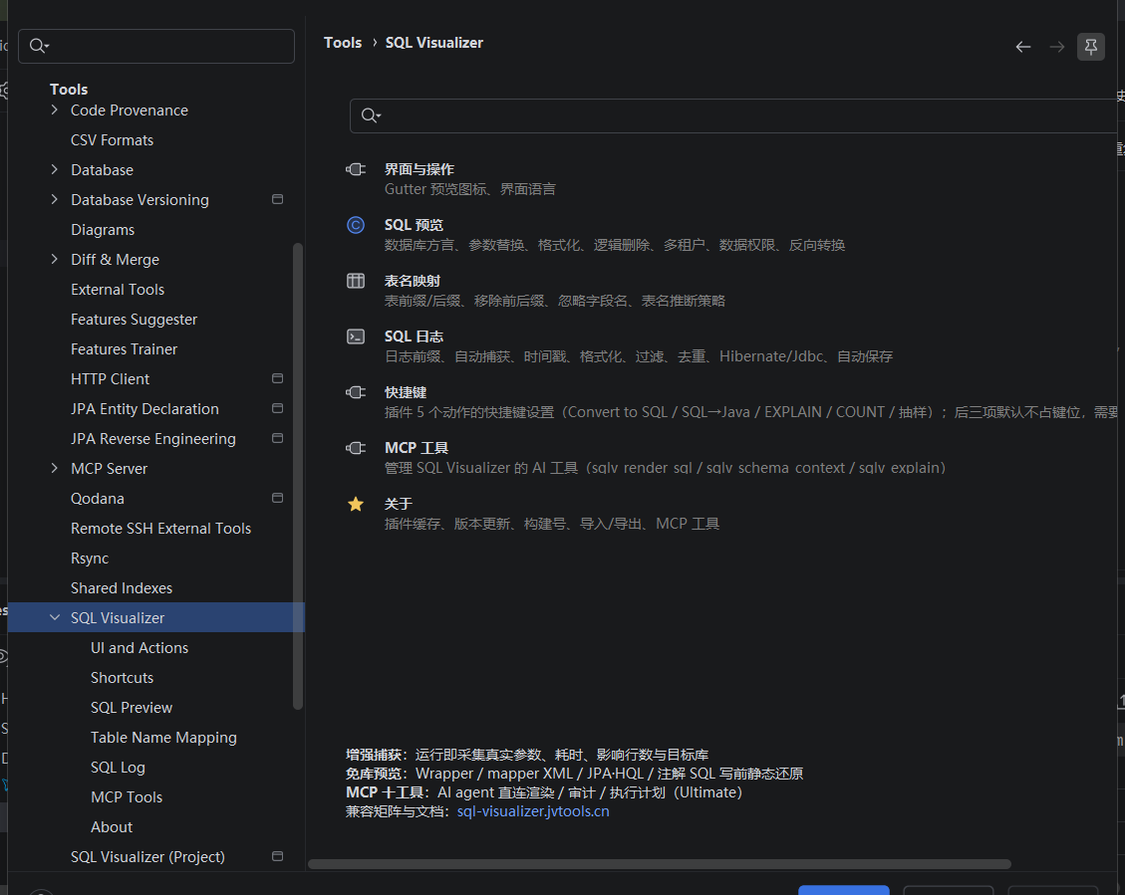
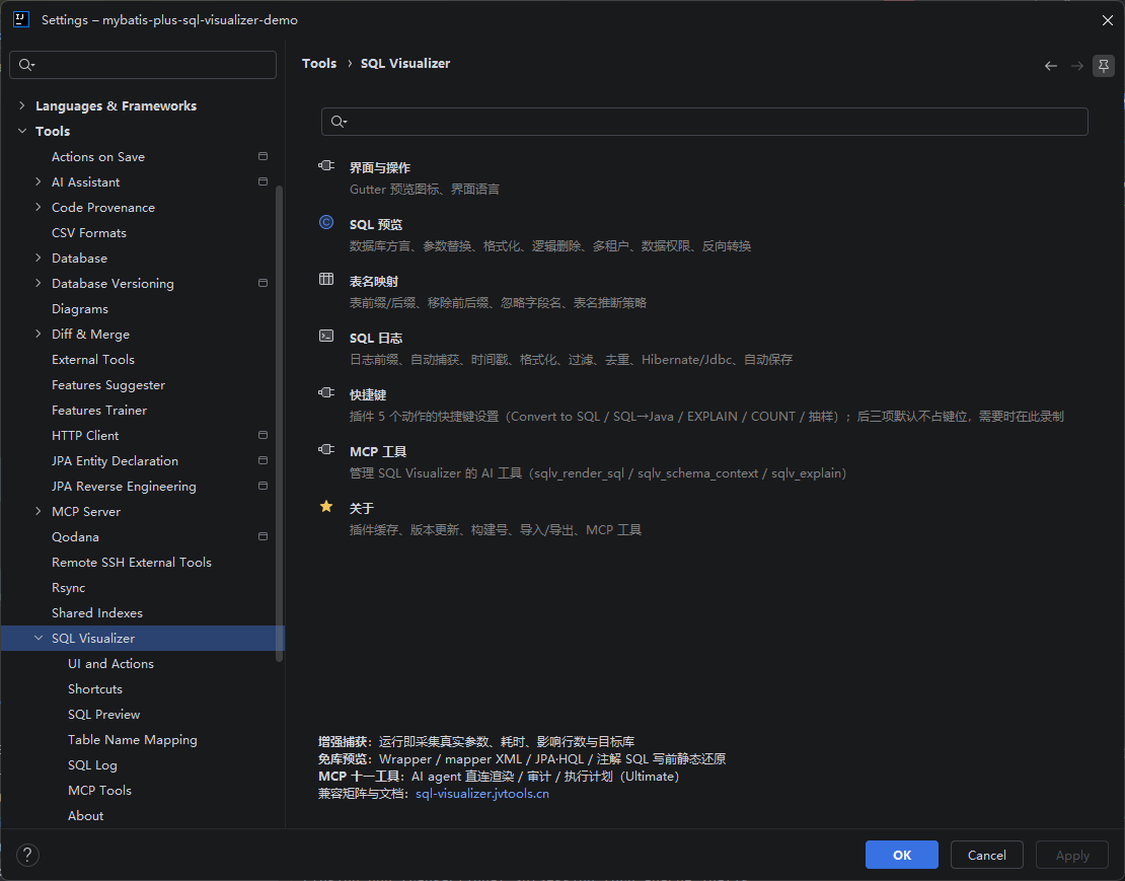
docs(demo): 重拍三张设置页截图（S01/S03/S04），补上新增设置行
S03（settings.png / settings-landing.png）：落地页重拍。旧图能力矩阵第三行仍写
「MCP 十工具」，源码早已修为「十一」，本轮插件重新构建后新文案才生效。两处引用
（guide/configuration.md 首图与站内展示组件）共用这张较完整的落地页。

S04（settings-mcp.png）：补「MCP 输出脱敏（敏感字面量打码）」行——旧图 10-12
拍的时候还没有这一项，该行位于总开关之后、11 个工具之前。同时把十一项工具
（sqlv_render_sql … sqlv_history_search）全部纳入画面。

S01（settings-enhanced-capture.png）：补「展示与导出脱敏」行，并把 alt 里过时的
「授权状态行」改为「已挂载状态行」（增强捕获早已默认开启，目前状态行显示的是
「已挂载 pid=…」而不是授权态）。

三张均由用户手动截取设置对话框本体，等比缩放到 1125 宽与既有图统一。

diff --git a/en/guide/configuration.md b/en/guide/configuration.md
@@ -65,7 +65,7 @@ The default keeps `?` as a to-be-filled hint, avoiding NULL silently filtering r
 
 ## SQL Log
 
-![Settings page, Source Location Capture group: enhanced capture switch, redaction, call-stack snapshot frame count (12–64), authorization status line and the two frame filter lists](/demo/settings-enhanced-capture.png)
+![Settings page, Source Location Capture group: enhanced capture switch, enhanced-capture redaction, display & export masking, call-stack snapshot frame count (12–64), attached status line and the two frame filter lists](/demo/settings-enhanced-capture.png)
 
 ![Settings page groups for List Display / CRUD color marking / slow-query threshold: SQL display mode, per-statement color markers with reset, slow-query threshold, list cache and dedup window](/demo/settings-log-list.png)
 
@@ -139,7 +139,7 @@ The three are independent: clearing preview history does not delete parameter sn
 
 ## MCP Tools
 
-![Settings page, MCP subpage: the master switch plus a per-tool enable checkbox for each of the eleven read-only tools](/demo/settings-mcp.png)
+![Settings page, MCP subpage: the master switch, MCP output masking, and a per-tool enable checkbox for each of the eleven read-only tools](/demo/settings-mcp.png)
 
 The plugin exposes 11 read-only tools to AI agents (Claude Code / Cursor / AI Assistant, etc.) through the platform's MCP Server; the "MCP Tools" subpage in settings provides the gating:
 

diff --git a/guide/configuration.md b/guide/configuration.md
@@ -65,7 +65,7 @@
 
 ## SQL 日志
 
-![设置页「源码位置捕获」分组：增强捕获开关、增强捕获脱敏、调用栈快照帧数（12~64）、授权状态行与两组帧过滤前缀](/demo/settings-enhanced-capture.png)
+![设置页「源码位置捕获」分组：增强捕获开关、增强捕获脱敏、展示与导出脱敏、调用栈快照帧数（12~64）、已挂载状态行与两组帧过滤前缀](/demo/settings-enhanced-capture.png)
 
 ![设置页「列表显示 / CRUD 颜色标记 / 慢查询阈值」等分组：SQL 显示模式、四类语句的颜色标记与恢复默认、慢查询阈值、列表缓存与去重窗口](/demo/settings-log-list.png)
 
@@ -139,7 +139,7 @@
 
 ## MCP 工具
 
-![设置页 MCP 子页：总开关 + 十一个只读工具的逐项启用复选框](/demo/settings-mcp.png)
+![设置页 MCP 子页：总开关、MCP 输出脱敏，以及十一个只读工具的逐项启用复选框](/demo/settings-mcp.png)
 
 插件在平台 MCP Server 上向 AI agent（Claude Code / Cursor / AI Assistant 等）暴露 11 个只读工具，设置页「MCP 工具」子页提供门控：
 
